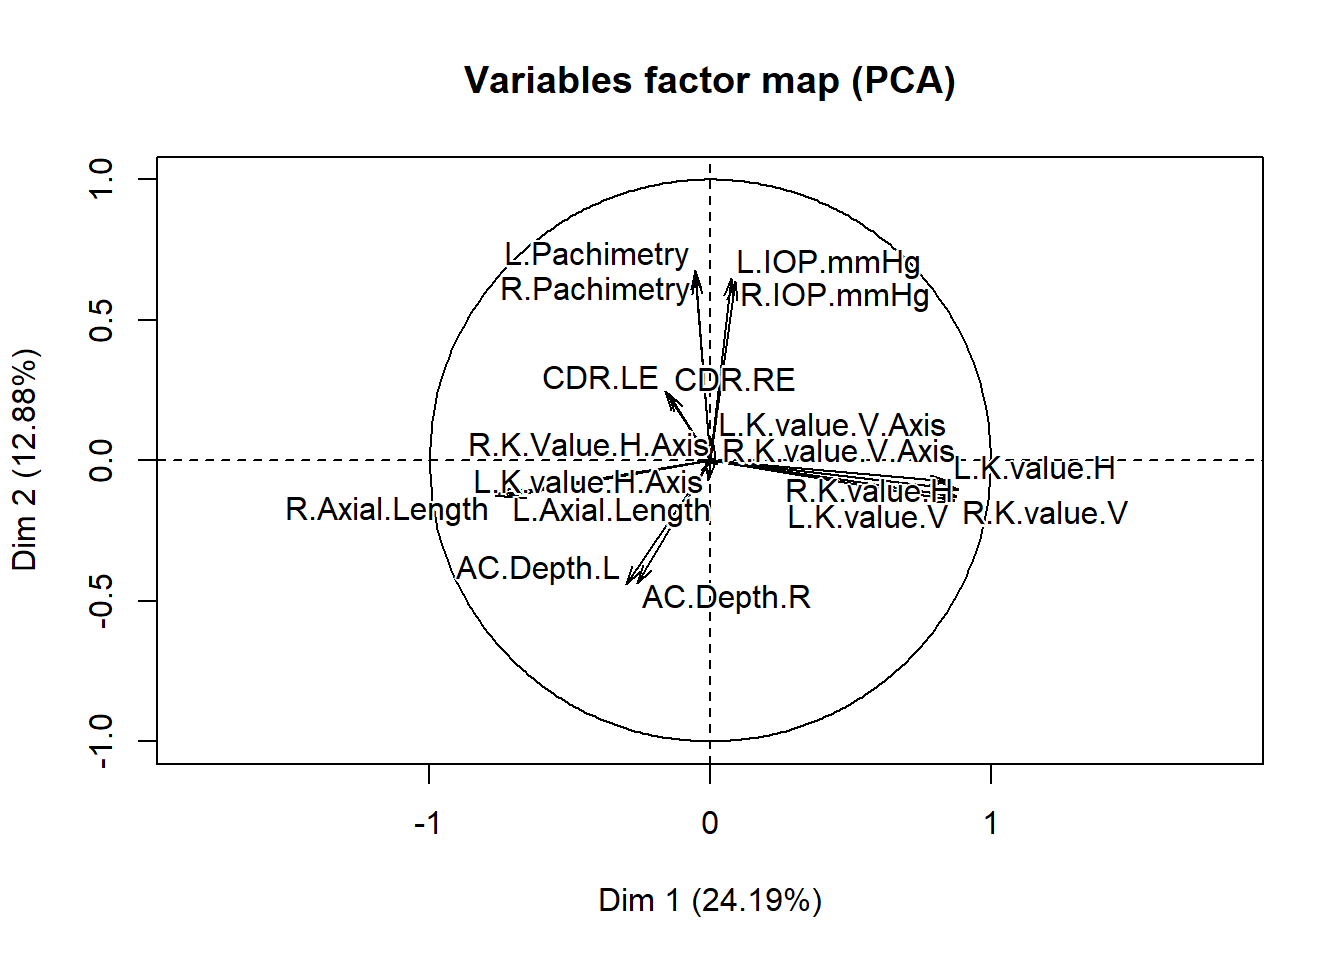
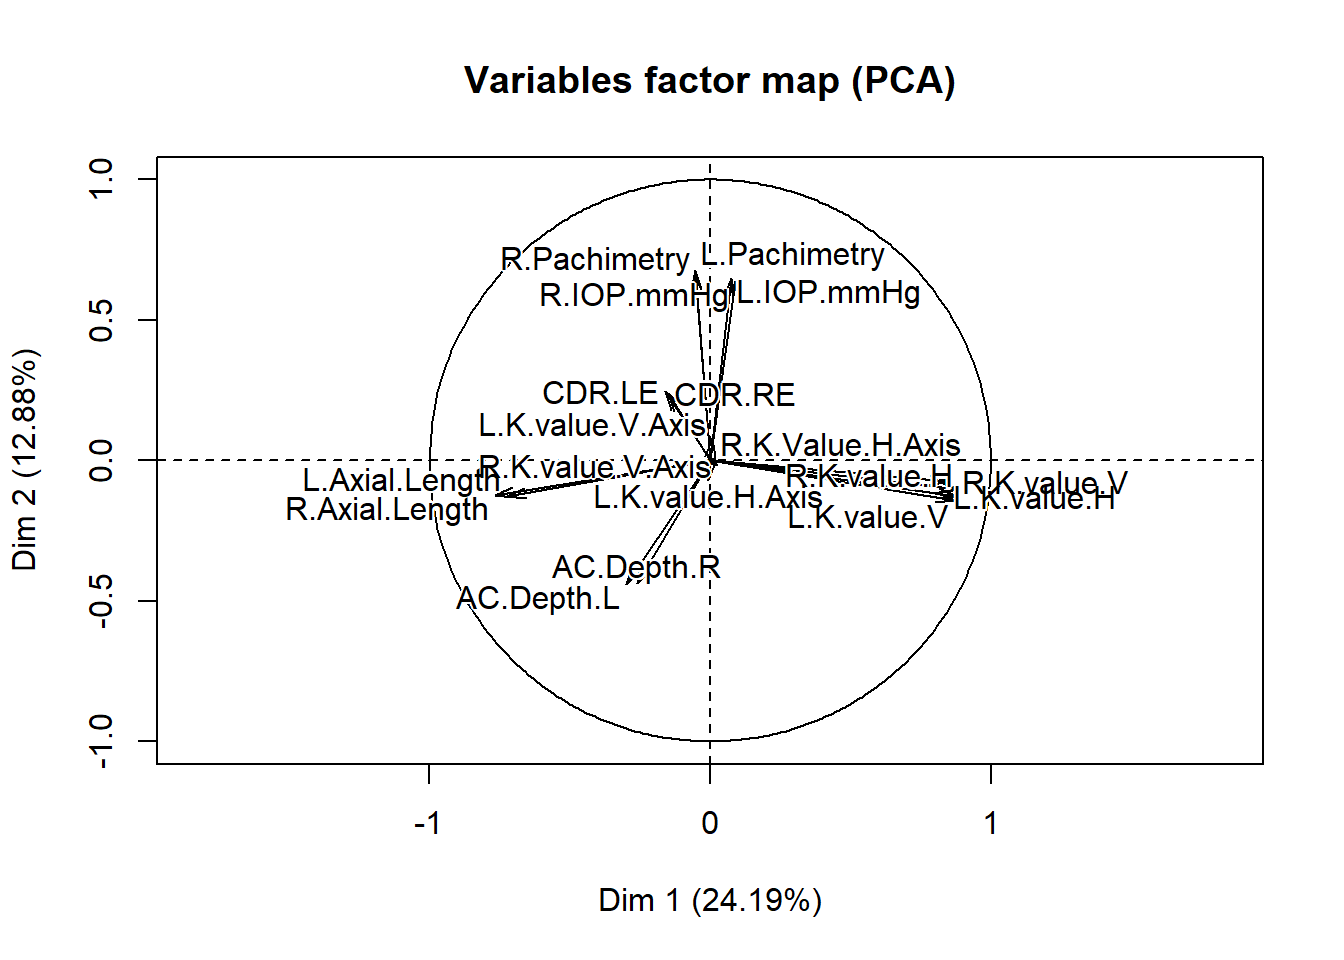
updated example imputation entry

Changed region(s): [[0.2188, 0.375, 0.8438, 0.6562], [0.375, 0.25, 0.6875, 0.3438]]

diff --git a/public/posts/example-of-data-impuation-with-missmda/index.html b/public/posts/example-of-data-impuation-with-missmda/index.html
@@ -534,7 +534,7 @@ quant.data.adults&lt;- phen.data.adults[quant.variables]</code></pre>
 <pre><code>## package &#39;missMDA&#39; successfully unpacked and MD5 sums checked
 ## 
 ## The downloaded binary packages are in
-##  C:\Users\Martha\AppData\Local\Temp\Rtmp48Yrhv\downloaded_packages</code></pre>
+##  C:\Users\Martha\AppData\Local\Temp\RtmpaopRRl\downloaded_packages</code></pre>
 <pre class="r"><code>require(missMDA)</code></pre>
 <pre><code>## Loading required package: missMDA</code></pre>
 <pre class="r"><code>require(FactoMineR)</code></pre>
@@ -551,7 +551,7 @@ nb</code></pre>
 ## 
 ## $criterion
 ##         0         1         2         3         4         5 
-##  805.8485  909.0843  966.6860 1029.7058 1088.5330  880.8944</code></pre>
+##  805.7256  908.9445  966.5074 1029.5131 1088.5948  880.7742</code></pre>
 <ol start="4" style="list-style-type: decimal">
 <li>Impute the data with the number of dimensions previously calculated</li>
 </ol>
@@ -560,7 +560,7 @@ head(res.comp$completeObs) #view imputed dataset</code></pre>
 <pre><code>##   R.K.value.H R.K.Value.H.Axis R.K.value.V R.K.value.V.Axis L.K.value.H
 ## 1    42.00000          2.00000    43.00000         92.00000    42.50000
 ## 2    41.25000          7.00000    42.25000         97.00000    41.50000
-## 3    42.96687         93.74108    43.79634         91.19287    42.96871
+## 3    42.96687         93.74108    43.79634         91.18098    42.96871
 ## 4    44.75000          5.00000    45.00000         95.00000    45.00000
 ## 5    44.75000          0.00000    44.75000         90.00000    44.25000
 ## 6    42.00000          8.00000    43.25000         98.00000    42.25000
@@ -598,6 +598,8 @@ head(res.comp$completeObs) #view imputed dataset</code></pre>
 <div id="discussion" class="section level2">
 <h2>Discussion</h2>
 <p>The single imputation has produced a complete dataset. It is difficult to interpret the individuals factor map in detail because there are a large number of individuals in the study, and each dot represents an individual. If any of the participants had a signifiant amount of data missing, a circle around the dot would be present signifying the uncertainty of the imputed values. The larger the area of the circle, the higher the uncertainty. However, there does not appear to be any that are clearly visible in this plot, which suggests that the imputed values for each individual fits well. It also possible that any circles that are present are not visible because of the dense cluster of dots in the plot. The variables factor map shows the uncertainty of the imputed values for each variable.</p>
+<p><a href="https://cran.r-project.org/web/packages/missMDA/missMDA.pdf" class="uri">https://cran.r-project.org/web/packages/missMDA/missMDA.pdf</a> <a href="http://factominer.free.fr/missMDA/PCA.html" class="uri">http://factominer.free.fr/missMDA/PCA.html</a> <a href="http://www.statpower.net/Content/312/R%20Stuff/PCA.html">http://www.statpower.net/Content/312/R%20Stuff/PCA.html</a></p>
+<p>The results of this PCA imputation does not show the variation for each individual or variable as it was only performed once. Variation, or uncertainty, of the imputed values can be determined by performing multiple imputations.</p>
 </div>
 </div>
 

diff --git a/content/posts/2018-04-23-example-of-data-impuation-with-missmda.html b/content/posts/2018-04-23-example-of-data-impuation-with-missmda.html
@@ -38,7 +38,7 @@ quant.data.adults&lt;- phen.data.adults[quant.variables]</code></pre>
 <pre><code>## package &#39;missMDA&#39; successfully unpacked and MD5 sums checked
 ## 
 ## The downloaded binary packages are in
-##  C:\Users\Martha\AppData\Local\Temp\Rtmp48Yrhv\downloaded_packages</code></pre>
+##  C:\Users\Martha\AppData\Local\Temp\RtmpaopRRl\downloaded_packages</code></pre>
 <pre class="r"><code>require(missMDA)</code></pre>
 <pre><code>## Loading required package: missMDA</code></pre>
 <pre class="r"><code>require(FactoMineR)</code></pre>
@@ -55,7 +55,7 @@ nb</code></pre>
 ## 
 ## $criterion
 ##         0         1         2         3         4         5 
-##  805.8485  909.0843  966.6860 1029.7058 1088.5330  880.8944</code></pre>
+##  805.7256  908.9445  966.5074 1029.5131 1088.5948  880.7742</code></pre>
 <ol start="4" style="list-style-type: decimal">
 <li>Impute the data with the number of dimensions previously calculated</li>
 </ol>
@@ -64,7 +64,7 @@ head(res.comp$completeObs) #view imputed dataset</code></pre>
 <pre><code>##   R.K.value.H R.K.Value.H.Axis R.K.value.V R.K.value.V.Axis L.K.value.H
 ## 1    42.00000          2.00000    43.00000         92.00000    42.50000
 ## 2    41.25000          7.00000    42.25000         97.00000    41.50000
-## 3    42.96687         93.74108    43.79634         91.19287    42.96871
+## 3    42.96687         93.74108    43.79634         91.18098    42.96871
 ## 4    44.75000          5.00000    45.00000         95.00000    45.00000
 ## 5    44.75000          0.00000    44.75000         90.00000    44.25000
 ## 6    42.00000          8.00000    43.25000         98.00000    42.25000
@@ -102,5 +102,7 @@ head(res.comp$completeObs) #view imputed dataset</code></pre>
 <div id="discussion" class="section level2">
 <h2>Discussion</h2>
 <p>The single imputation has produced a complete dataset. It is difficult to interpret the individuals factor map in detail because there are a large number of individuals in the study, and each dot represents an individual. If any of the participants had a signifiant amount of data missing, a circle around the dot would be present signifying the uncertainty of the imputed values. The larger the area of the circle, the higher the uncertainty. However, there does not appear to be any that are clearly visible in this plot, which suggests that the imputed values for each individual fits well. It also possible that any circles that are present are not visible because of the dense cluster of dots in the plot. The variables factor map shows the uncertainty of the imputed values for each variable.</p>
+<p><a href="https://cran.r-project.org/web/packages/missMDA/missMDA.pdf" class="uri">https://cran.r-project.org/web/packages/missMDA/missMDA.pdf</a> <a href="http://factominer.free.fr/missMDA/PCA.html" class="uri">http://factominer.free.fr/missMDA/PCA.html</a> <a href="http://www.statpower.net/Content/312/R%20Stuff/PCA.html">http://www.statpower.net/Content/312/R%20Stuff/PCA.html</a></p>
+<p>The results of this PCA imputation does not show the variation for each individual or variable as it was only performed once. Variation, or uncertainty, of the imputed values can be determined by performing multiple imputations.</p>
 </div>
 </div>
